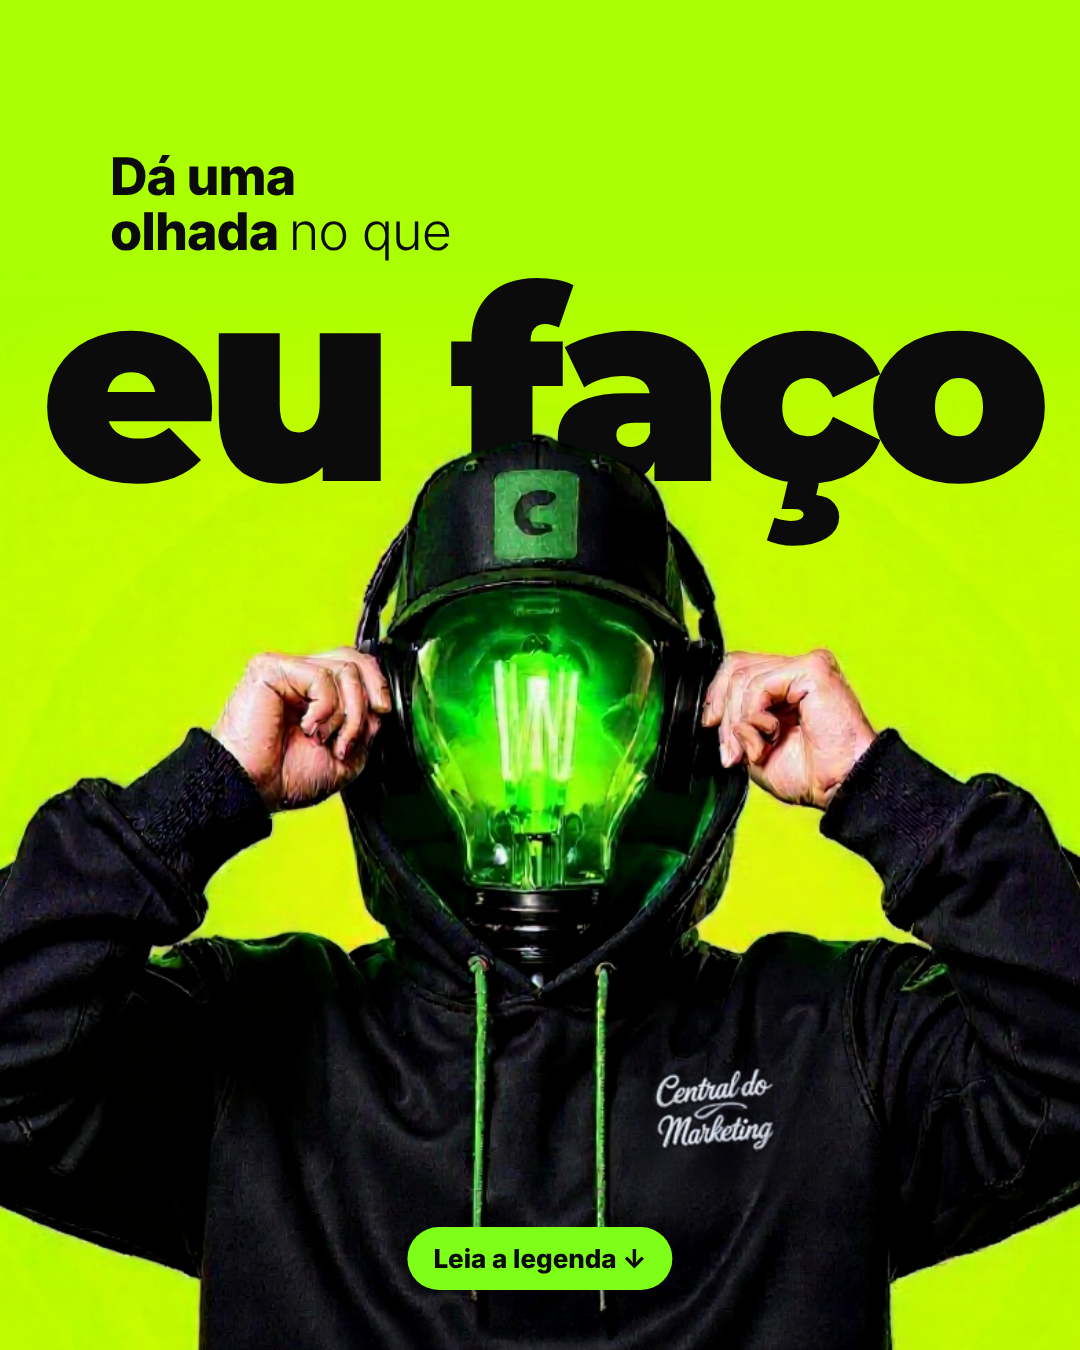
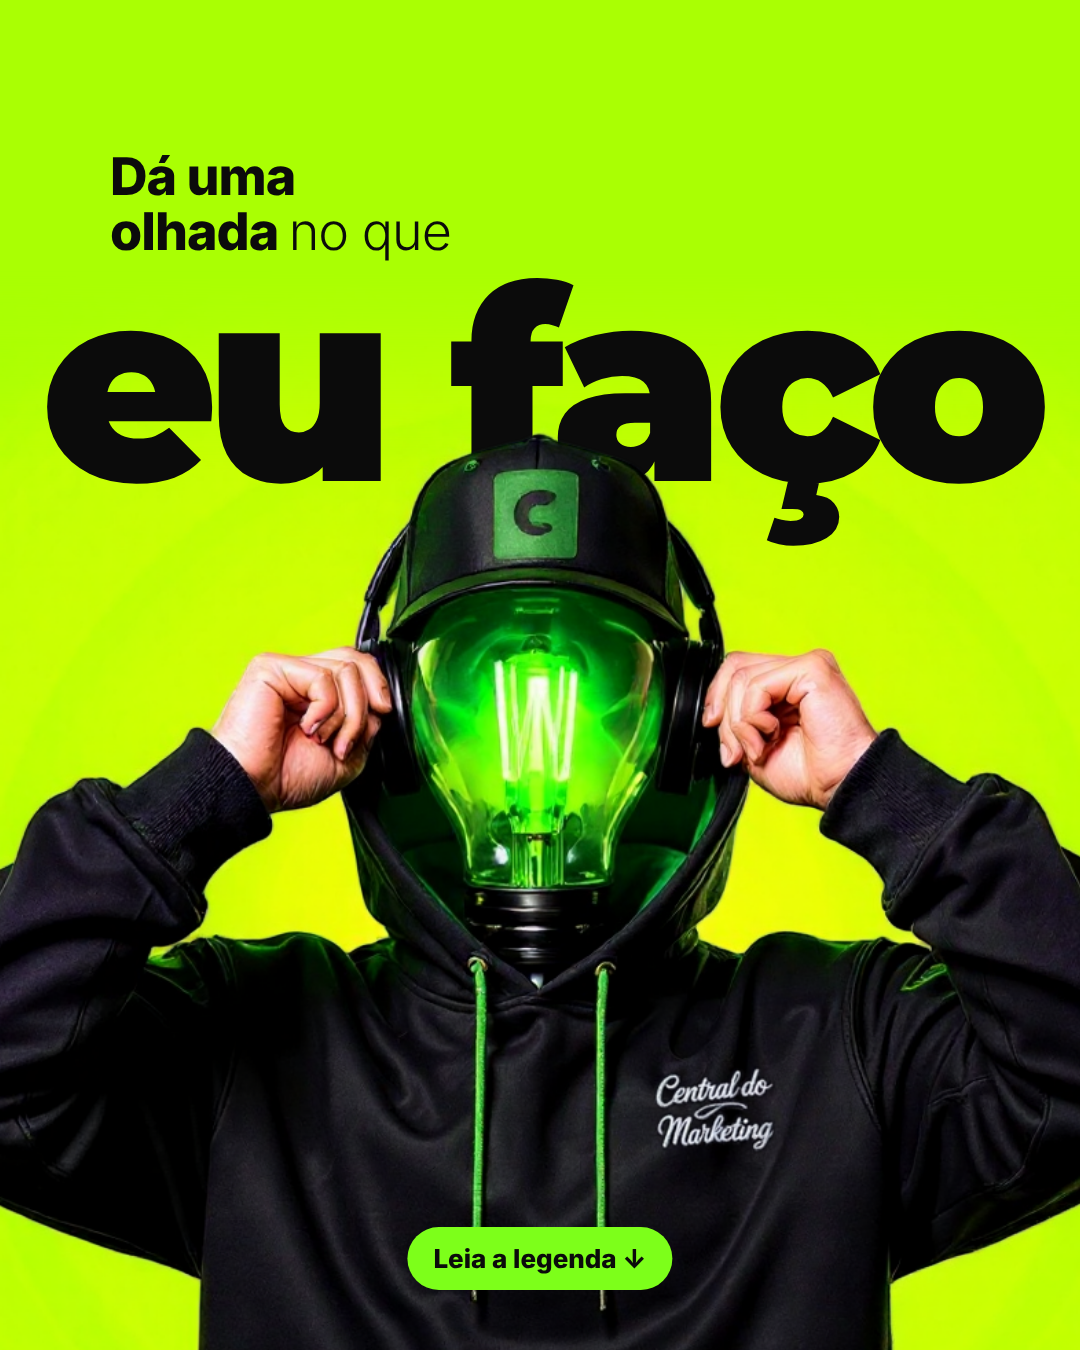
Estático 30: qualidade original com o bordado aprovado
Claude-Session: https://claude.ai/code/session_017mkQW4f9RfZB1iSbiGkvms

diff --git a/banco/tpl-estatico/layout-30.html b/banco/tpl-estatico/layout-30.html
@@ -17,5 +17,5 @@ body{margin:0}#s{width:1080px;height:1350px;position:relative;overflow:hidden;ba
 .a{position:absolute;left:110px;top:150px;font:800 52px/1.05 I8;color:#0b0b0b;letter-spacing:-1px}.a span{font-family:IL;font-weight:300}
 .b{position:absolute;left:0;right:0;top:250px;text-align:center;font:900 270px/1 M9;letter-spacing:-12px;color:#0b0b0b}
 .cta{background:#7dff1a;color:#0b0b0b}
-</style></head><body><div id=s style="background:#AAFF03"><img src="c30i.png" style="position:absolute;left:-65px;top:270px;width:1210px;-webkit-mask-image:linear-gradient(transparent,#000 200px)"><div class=a>Dá uma<br>olhada <span>no que</span></div><div class=b>eu faço</div><img src="c30i-cut.png" style="position:absolute;left:-65px;top:270px;width:1210px">
+</style></head><body><div id=s style="background:#AAFF03"><img src="c30j.png" style="position:absolute;left:-65px;top:270px;width:1210px;-webkit-mask-image:linear-gradient(transparent,#000 200px)"><div class=a>Dá uma<br>olhada <span>no que</span></div><div class=b>eu faço</div><img src="c30j-cut.png" style="position:absolute;left:-65px;top:270px;width:1210px">
 <div class=cta style="bottom:60px;background:#7dff1a;color:#0b0b0b">Leia a legenda ↓</div></div></body></html>

diff --git a/conhecimento/agentes/designer/22-feed-estatico-quebra-de-padrao.md b/conhecimento/agentes/designer/22-feed-estatico-quebra-de-padrao.md
@@ -139,3 +139,4 @@ Arquivos em `banco/tpl-estatico/` (`ref-N`, `layout-N.html`, `teste-N.png`).
 - 30: bordado pequeno, alto no peito (perto do ombro), cinza tom sobre tom, com relevo leve: parece da própria blusa.
 - 30 (correção): o bordado é GERADO NA IMAGEM (nunca texto por cima, fica falso): 2 linhas, na altura do peito, linha cinza claro com textura de costura.
 - 30: bordado pequeno (tamanho de logo de peito, ~9% da largura da arte).
+- 30 APROVADA. Lição: cada edição por IA em cima de outra edição perde qualidade; editar sempre a partir da imagem boa mais antiga e colar só o pedaço novo.
